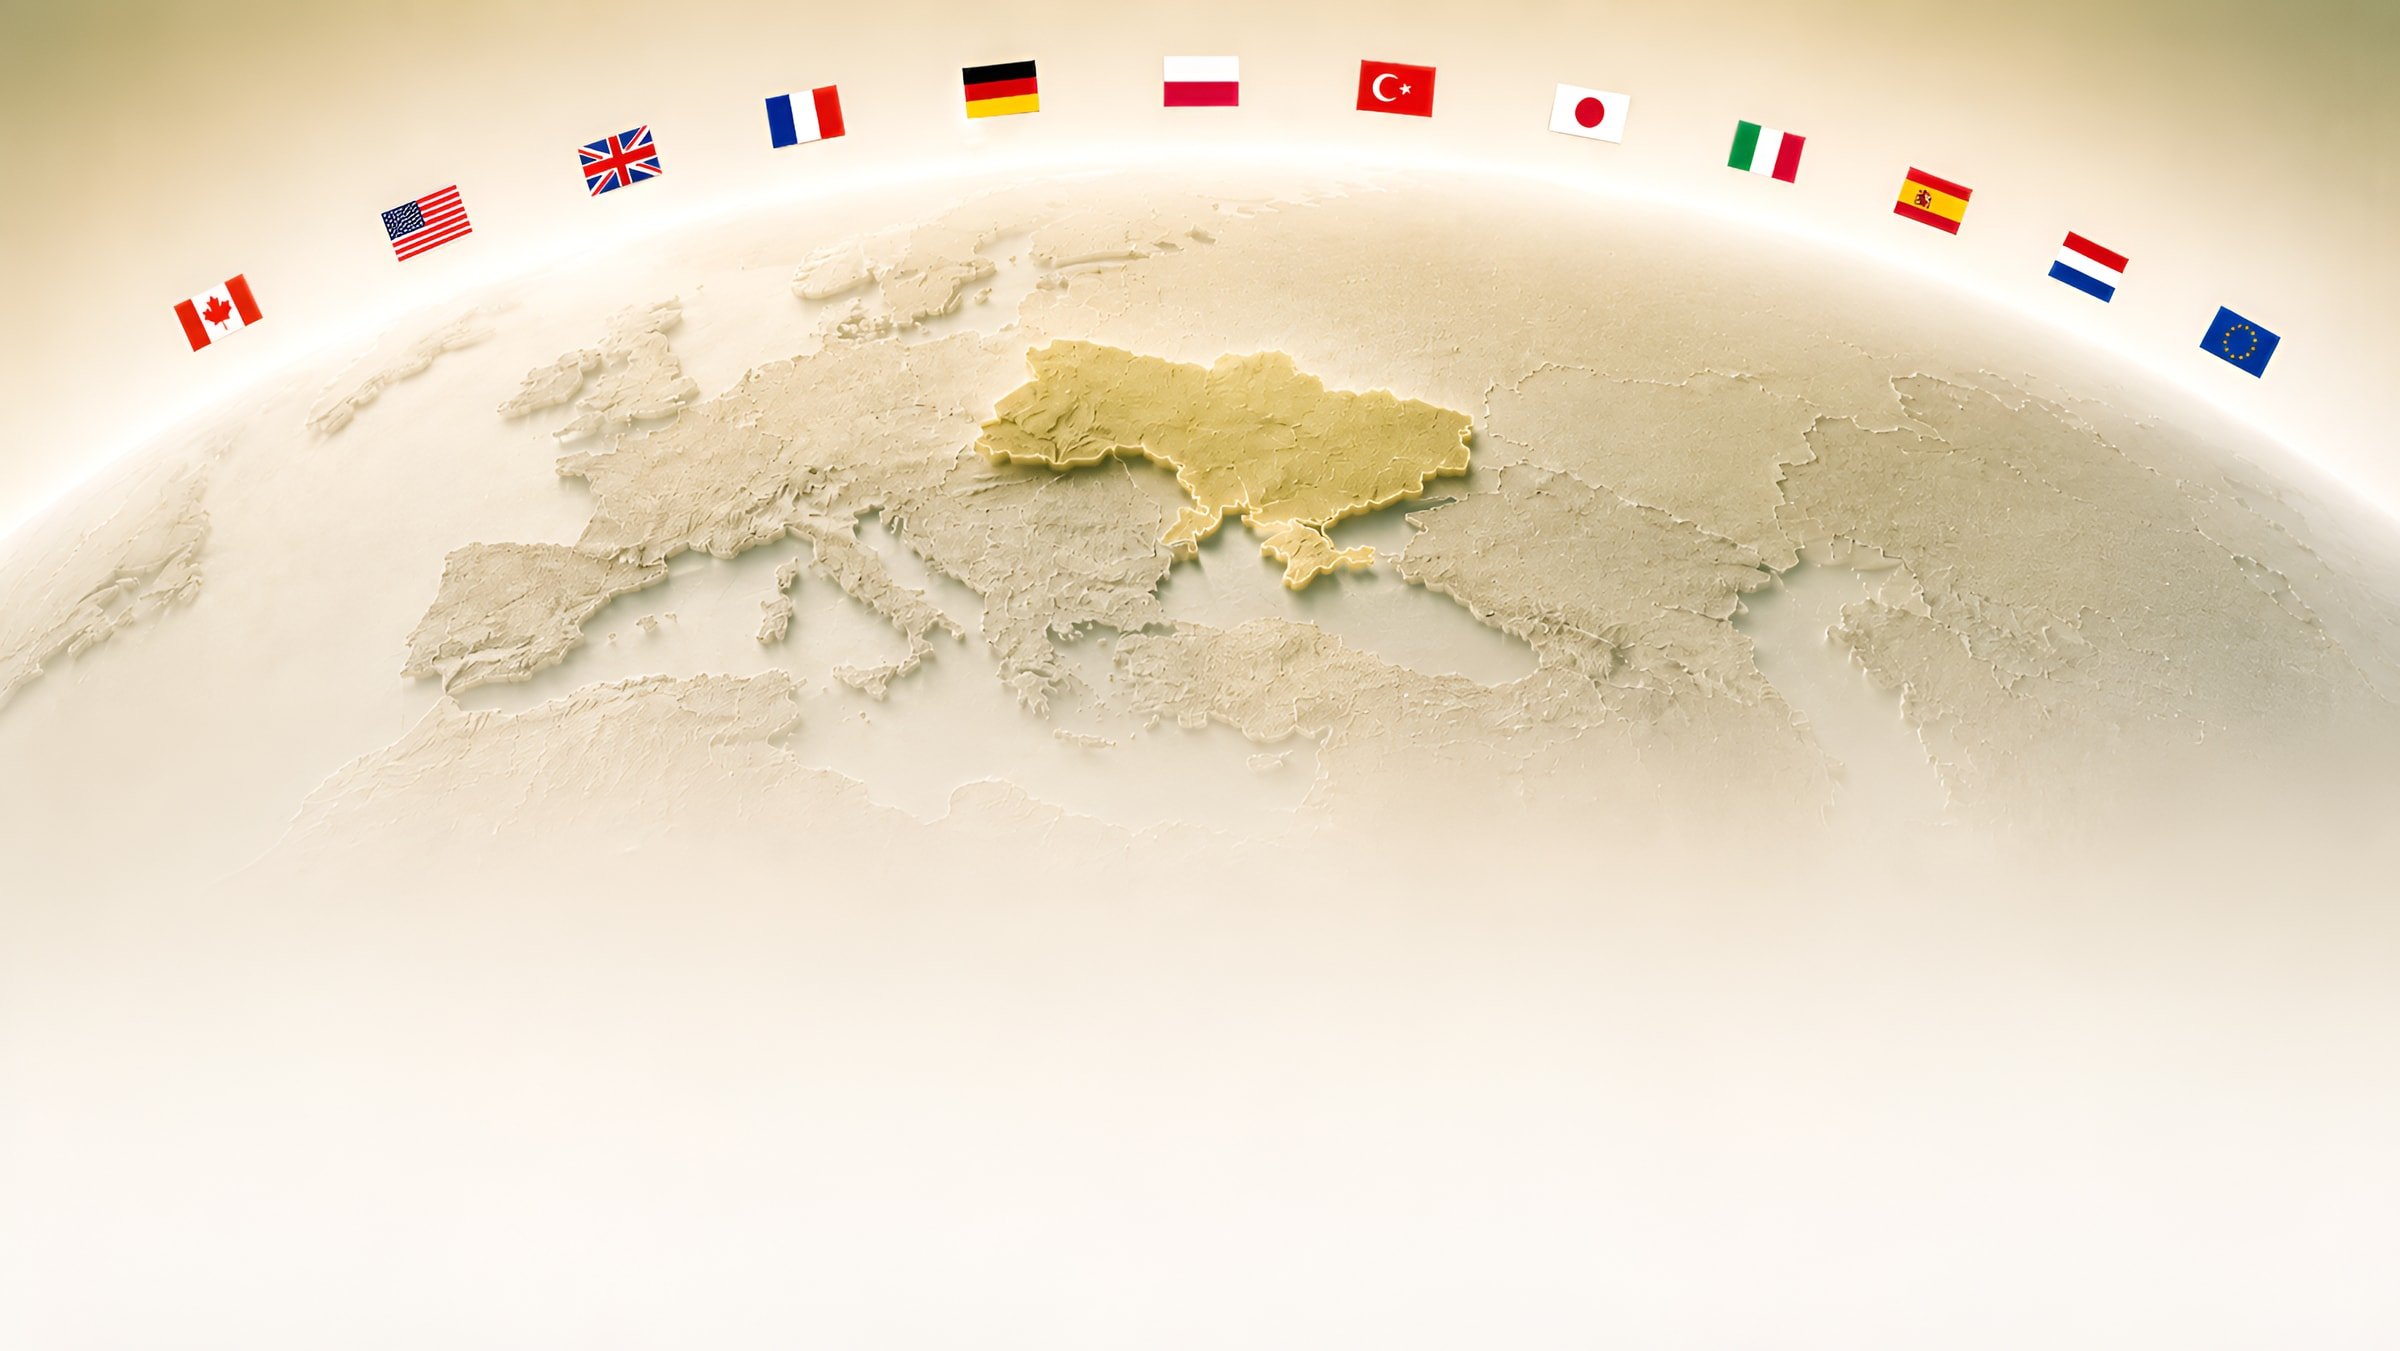
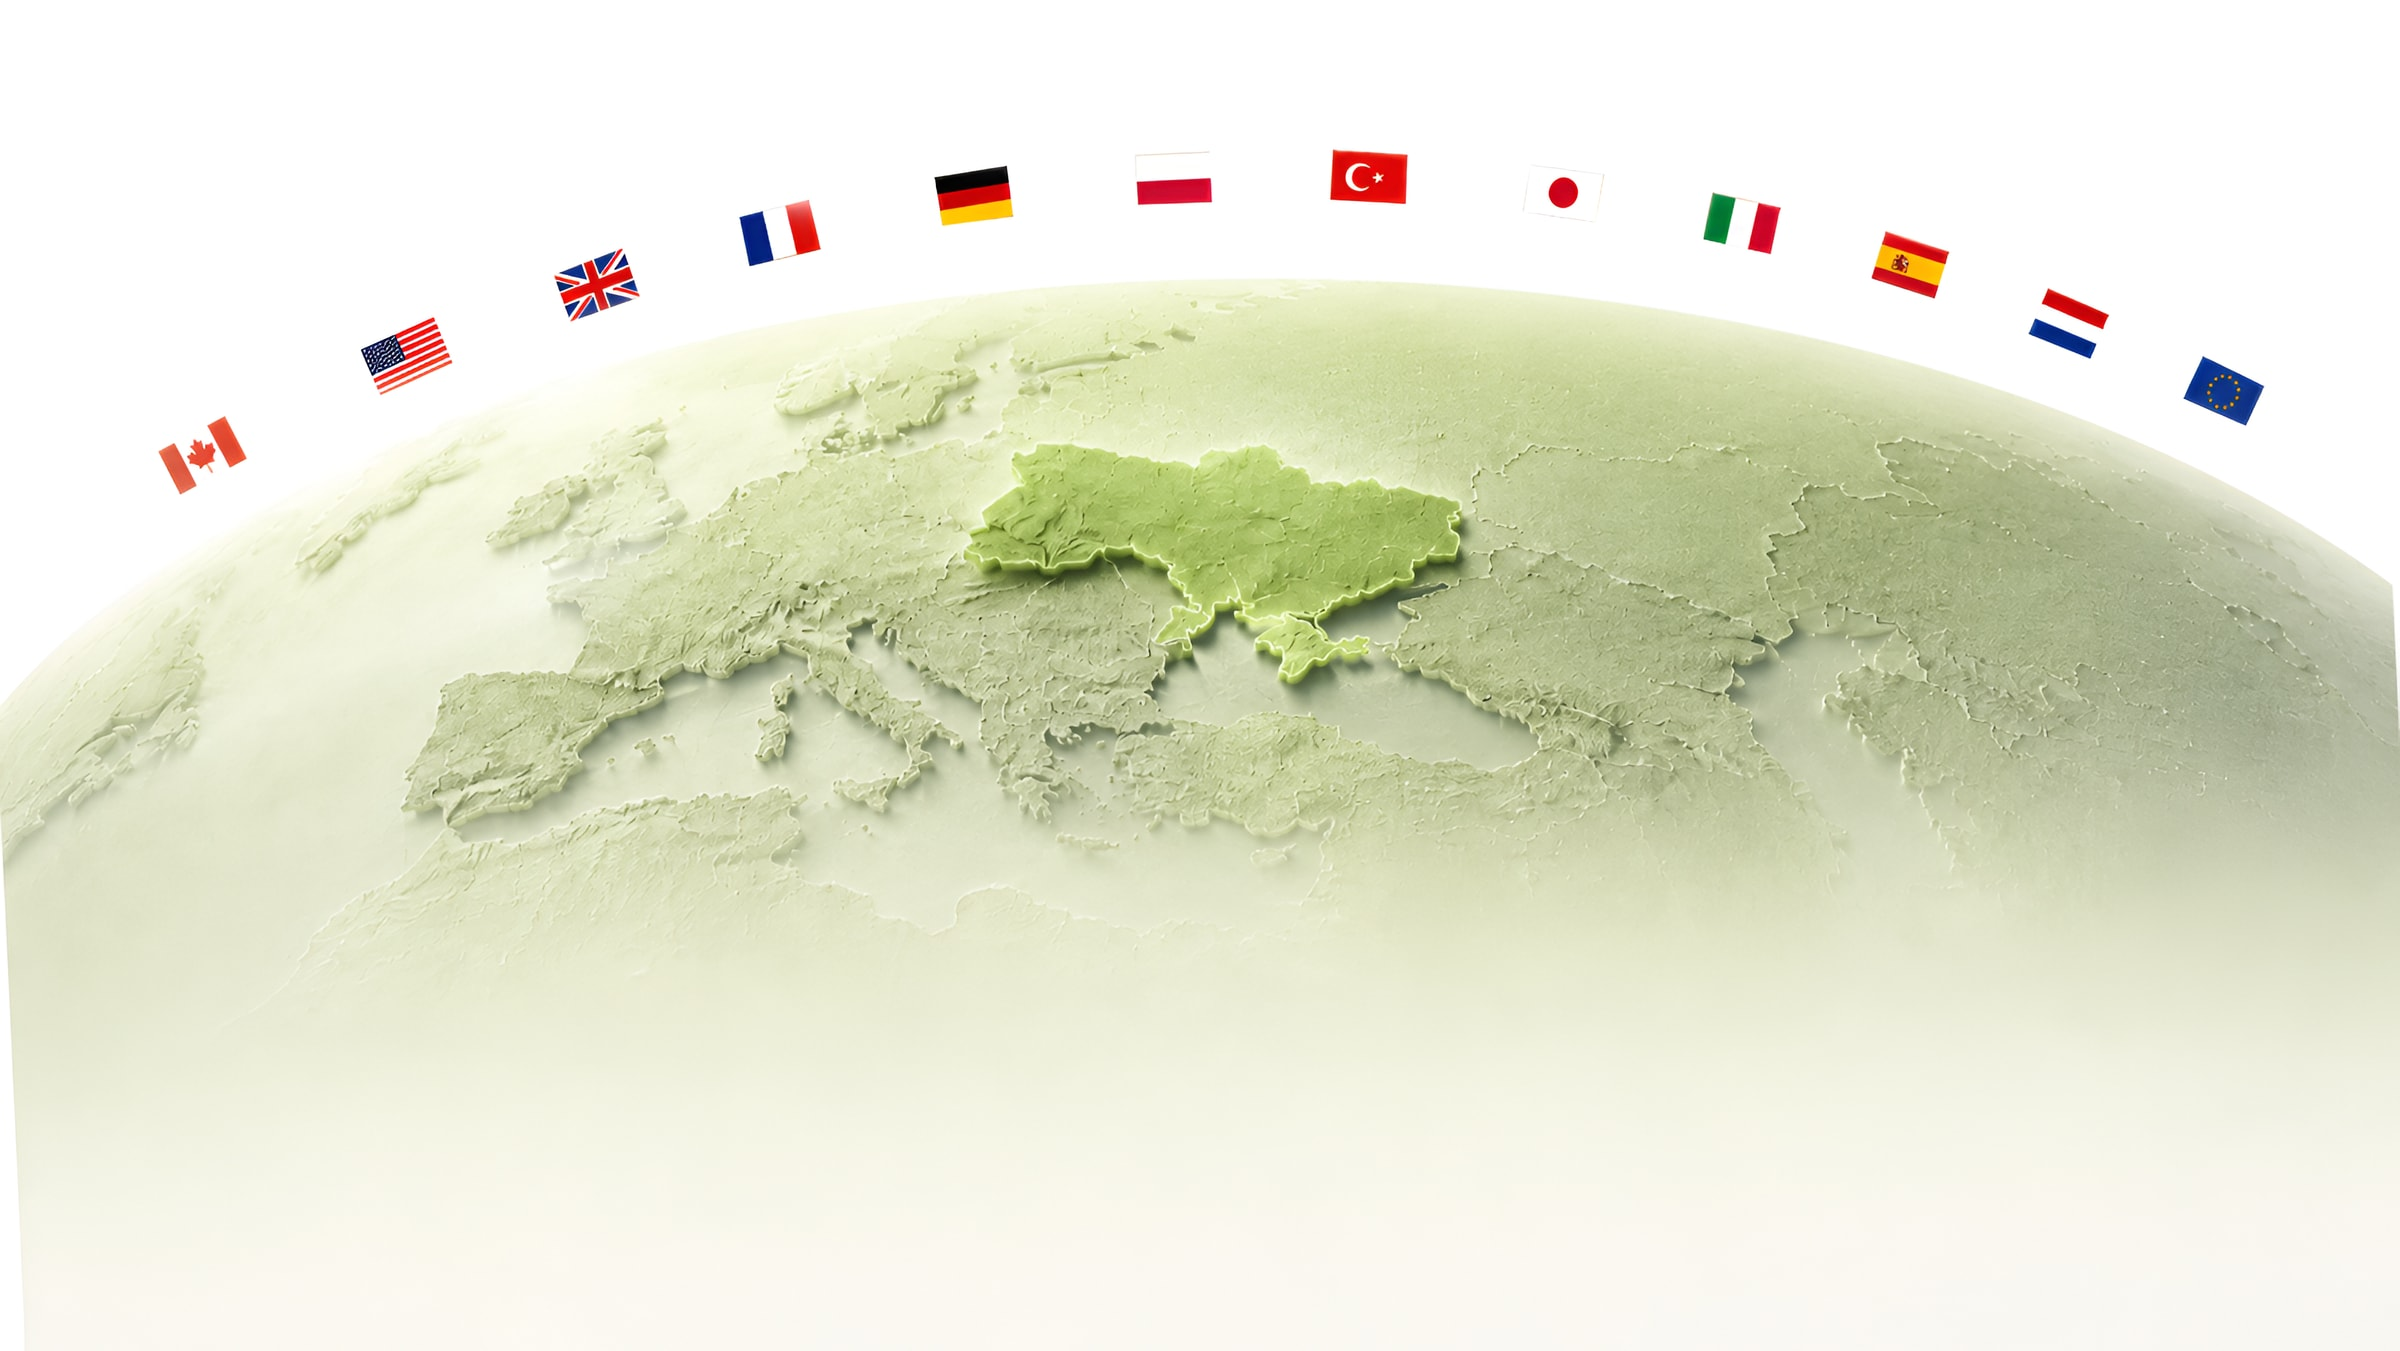
Новий банер «Про нас» у зеленій гамі, текстовий блок піднято вище
Зображення 3344x1882 зменшено до 2400px, JPEG q90 — 228KB.

Нижній відступ текстового блоку збільшено, тож мітка перемістилась
з 50% на 41% висоти банера. Через це вона потрапила в зелену зону
глобуса, де контраст упав до 2.5:1 — підкладку зміщено вище
(0.72 на 16% замість 0.35 на 28%), щільність лишилась помірною,
глобус не вибілюється.

Контраст: мітка 4.9:1 (1280px) і 5.8:1 (1440px), заголовок 17.5:1,
підзаголовок 6.5:1.

Claude-Session: https://claude.ai/code/session_0154L7r1tvjFE8rTWUGx1arc

diff --git a/src/styles.css b/src/styles.css
@@ -839,14 +839,14 @@ main > section,
     grid-area: 1 / 1;
     align-self: end;
     padding-top: clamp(40px, 7vw, 96px);
-    padding-bottom: clamp(20px, 3.5vw, 48px);
+    padding-bottom: clamp(56px, 8.5vw, 128px);
     /* Світла підкладка з плавним згасанням угору: тримає контраст тексту
        незалежно від того, яке зображення підставлять через CMS. */
     background: linear-gradient(180deg,
       rgba(255, 255, 255, 0) 0%,
-      rgba(255, 255, 255, 0.35) 28%,
-      rgba(255, 255, 255, 0.68) 55%,
-      rgba(255, 255, 255, 0.88) 100%);
+      rgba(255, 255, 255, 0.72) 16%,
+      rgba(255, 255, 255, 0.8) 45%,
+      rgba(255, 255, 255, 0.92) 100%);
   }
   /* Мітка — найдрібніший текст на банері, тож бере темніший відтінок
      бренду: світлий зелений на зеленкуватому глобусі давав 2.6:1. */
